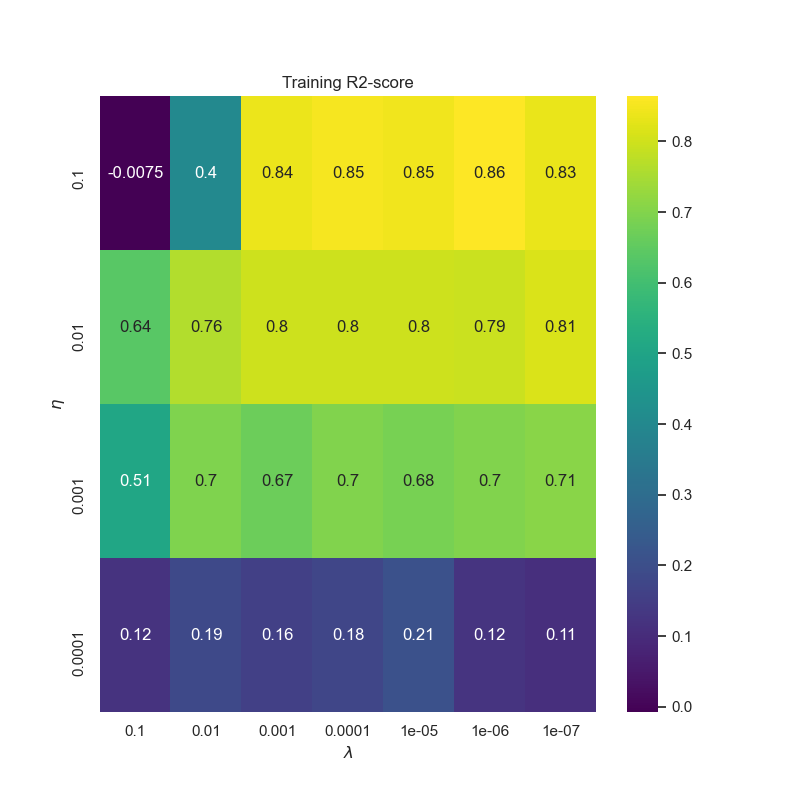
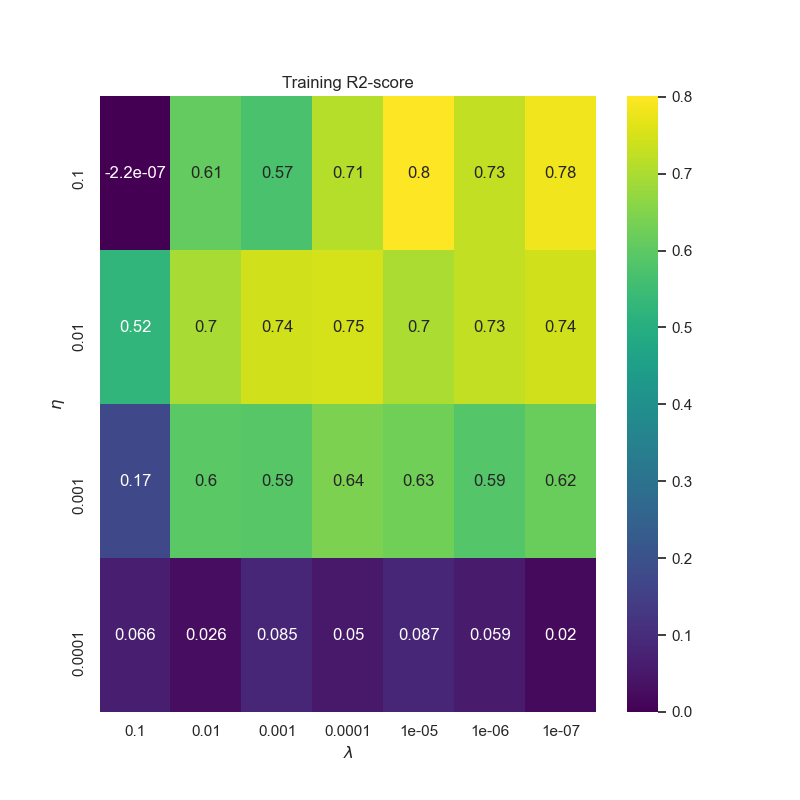
tester bias variance

diff --git a/project3/code/test_project_3.py b/project3/code/test_project_3.py
@@ -786,20 +786,20 @@ if test14:
     n_components = 8
 
     X_train, X_test, y_train, y_test = helper.load_housing_california_data(
-        n_components, 1000)
+        n_components, 2000)
     
     # TODO: delete
     # y_train = to_categorical(y_train)
     # y_test = to_categorical(y_test)
 
-    lmbda = 1e-2
-    eta = 1e-3
+    lmbda = 1e-4
+    eta = 5e-4
     gamma = 0.8
-    model = helper.create_NN(n_components, 60, 5, "relu", eta, lmbda, gamma)
+    model = helper.create_NN(n_components, 60, 7, "relu", eta, lmbda, gamma)
 
     model.fit(X_train, y_train,
-              epochs=100,
-              batch_size=5, )
+              epochs=500,
+              batch_size=100, )
 
     y_hat_train = model.predict(X_train)
     y_hat_test = model.predict(X_test)
@@ -1096,11 +1096,12 @@ METHOD: Neural Network
 Bias-variance tradeoff
 """
 
-test21 = False
+test21 = True
 if test21:
     print('>> RUNNING TEST 21:')
     n_components = 8
-    X_train, X_test, y_train, y_test = helper.load_housing_california_data(n_components)
+    m_observations = 2000
+    X_train, X_test, y_train, y_test = helper.load_housing_california_data(n_components, m_observations)
 
 
     # Store the MSE, bias and variance values for test data
@@ -1109,17 +1110,18 @@ if test21:
     list_of_variance_testing = []
 
     
-    max_degree = 10
-    n_bootstraps = 5
+    max_degree = 12
+    n_bootstraps = 10
     iter = 0
     
-    lmbda = 1e-5
-    eta = 1e-2
-    gamma = 0.9
-    batch_size = 60
-    epochs = 200
+    lmbda = 1e-4
+    eta = 1e-3
+    gamma = 0.85
+    hidden_nodes = 60
+    batch_size = 120
+    epochs = 500
     # Finding MSE, bias and variance of test data for different degrees
-    for degree in range(1, max_degree + 1):
+    for degree in range(2, max_degree + 1, 2):
     
         # Create matrix for storing the bootstrap results
         y_pred_test_matrix = np.empty((y_test.shape[0], n_bootstraps))
@@ -1130,7 +1132,7 @@ if test21:
             _X, _y,  = helper.resample(X_train, y_train)
 
             #create NN model using tensorflow/keras
-            model = helper.create_NN(n_components, 60, degree, "relu", eta, lmbda, gamma)
+            model = helper.create_NN(n_components, hidden_nodes, degree, "relu", eta, lmbda, gamma)
             model.fit(_X, _y,
                     epochs=epochs,
                     batch_size=batch_size,)
@@ -1156,11 +1158,11 @@ if test21:
     
     
 
-    plt.plot(range(1, max_degree + 1),
+    plt.plot(range(2, max_degree + 1, 2),
              list_of_MSE_testing, label="Test sample - error")
-    plt.plot(range(1, max_degree + 1),
+    plt.plot(range(2, max_degree + 1, 2),
              list_of_bias_testing, label="Test sample - bias")
-    plt.plot(range(1, max_degree + 1),
+    plt.plot(range(2, max_degree + 1, 2),
              list_of_variance_testing, label="Test sample - variance")
     plt.xlabel("Model Complexity")
     plt.ylabel("Prediction Error")
@@ -1169,8 +1171,8 @@ if test21:
         f"bias-variance trade-off vs model complexity\n\
         Data points: {len(X_train[:,0]) + len(X_test[:,0])}; Method: Neural Network"
     )
-    # plt.savefig(
-        # f"figures/bias_variance_boots_looping_degree_DP_{len(x_train) + len(x_test)}_d_{degree}_{method}")
+    plt.savefig(
+        f"plots/test21/bias_variance_boots_NN.png")
     plt.show()
     plt.close()
 
@@ -1188,21 +1190,21 @@ if test22:
     print('>> RUNNING TEST 22:')
     # Loading the training and testing dataset
     n_components = 8
-    m_observations = 1000
+    m_observations = 2000
     X_train, X_test, y_train, y_test = helper.load_housing_california_data(
         n_components, m_observations)
     
 
-    batch_sizes = np.arange(20, 220, 20)
-    gammas = [0, 0.2, 0.4, 0.6, 0.8, 0.9, 1.0]
+    batch_sizes = np.arange(40, 440, 40)
+    gammas = [0, 0.4, 0.6, 0.8, 0.9]
 
     train_r2_score = np.zeros((len(batch_sizes), len(gammas)))
     test_r2_score = np.zeros((len(batch_sizes), len(gammas)))
 
-    eta = 1e-2
-    lmbda = 1e-7
+    eta = 5e-4
+    lmbda = 1e-5
     hidden_nodes = 60
-    hidden_layers = 1
+    hidden_layers = 7
     act_func = 'relu'
 
     iter = 0
@@ -1214,7 +1216,7 @@ if test22:
             epochs = batch_size
             # Train the model
             model.fit(X_train, y_train,
-                    epochs=epochs,
+                    epochs=batch_size*2,
                     batch_size=batch_size,)
 
             y_hat_train = model.predict(X_train)
@@ -1260,8 +1262,9 @@ test23 = False
 if test23:
     print('>> RUNNING TEST 23:')
     # Loading the training and testing dataset
+    m_observations = 2000
     n_components = 8
-    X_train, X_test, y_train, y_test = helper.load_housing_california_data(n_components)
+    X_train, X_test, y_train, y_test = helper.load_housing_california_data(n_components, m_observations)
 
     learning_rates = [10**(-i) for i in range(1, 5)]
     lmbda_values = np.logspace(-1, -7, 7)
@@ -1269,11 +1272,11 @@ if test23:
     train_r2_score = np.zeros((len(learning_rates), len(lmbda_values)))
     test_r2_score = np.zeros((len(learning_rates), len(lmbda_values)))
 
-    batch_size = 60
-    epochs = 100
+    batch_size = 120
+    epochs = 500
     gamma = 0.8
     hidden_nodes = 60
-    hidden_layers = 2
+    hidden_layers = 7
     act_func = 'relu'
 
     iter = 0
@@ -1330,7 +1333,7 @@ test24 = False
 if test24:
     print('>> RUNNING TEST 24:')
     n_components = 8
-    m_observations = 1000
+    m_observations = 2000
     X_train, X_test, y_train, y_test = helper.load_housing_california_data(n_components, m_observations)
 
 

diff --git a/project3/code/cost_functions.py b/project3/code/cost_functions.py
@@ -7,7 +7,8 @@ import helper
 def logistic_cost_NN(y_hat, y):
     """
     Finding the cost w.r.t. the logistic cost function,
-    used to determine the cost in the Neural Network
+    used to determine the cost in a classification case of the Neural Network
+    with binary target.
 
     :param y_hat (np.ndarray): 
         predicted target
@@ -23,12 +24,23 @@ def logistic_cost_NN(y_hat, y):
 
 def logistic_cost_NN_multi(y_hat, y):
     """
-    # TODO: docs
+    Finding the cost w.r.t. the logistic cost function,
+    used to determine the cost in a classification case of the Neural Network
+    with several targets.
+    
+    Link: 
     https://www.analyticsvidhya.com/blog/2021/02/cost-function-is-no-rocket-science/
+
+    :param y_hat (np.ndarray): 
+        predicted target
+    :param y (np.ndarray): 
+        actual target
+
+    :return (number):
+        the cost value
     """
 
     # Row-wise dot product, then summation
-
     return - np.sum(np.sum(np.log(y_hat)*y, axis=1))
 
 
@@ -74,10 +86,8 @@ def cost_logistic_regression_multi(beta, X, y, lmbda=0):
         the value of the cost function
     """
 
-    # TODO: add this underneath
     # Row-wise dot product, then summation
-    # + lmbda*np.sum(beta**2)
-    return - np.sum(np.sum(np.log(prob_multi(beta, X))*y, axis=1))
+    return - np.sum(np.sum(np.log(prob_multi(beta, X))*y, axis=1)) + lmbda*np.sum(beta**2)
 
 
 def prob(beta, X):
@@ -100,7 +110,16 @@ def prob(beta, X):
 
 def prob_multi(beta, X):
     """
-    # TODO: 
+    helper function for cost_logistic_regression_multi, will
+    establish the probabilities
+
+    :param beta (np.ndarray):
+        input value
+    :param x (np.ndarray, number):
+        input value
+
+    :return (np.ndarray):
+        function value
     """
 
     z = beta[:, 0].T + X @ beta[:, 1:].T

diff --git a/project3/code/activation_functions.py b/project3/code/activation_functions.py
@@ -78,7 +78,20 @@ def sigmoid(z, deriv=False):
 
 
 def softmax(z, deriv=False):
+    """
+    Apply the softmax activation function to
+    scalar, vectors or matrices
 
+    :param z (np.ndarray):
+        input value
+    :param deriv (bool):
+        - True if we want the derivative
+        - False if we want the function value
+
+    :return (np.ndarray):
+        the function value
+    """
+    
     if deriv:
         z = np.clip(z, -500, 500)
         return softmax(z) * (1 - softmax(z))

diff --git a/project3/code/helper.py b/project3/code/helper.py
@@ -546,8 +546,8 @@ def load_housing_california_data(n, m_observations=1000, show_explained_ratio=Fa
     pd = fetch_california_housing()
     # Parameter labels (if you want, not used)
 
-    X_input = pd.data[:1000]
-    y_target = pd.target[:1000]
+    X_input = pd.data #[:1000]
+    y_target = pd.target #[:1000]
     y_target = y_target.reshape(-1, 1)
 
     # Shuffling the data
